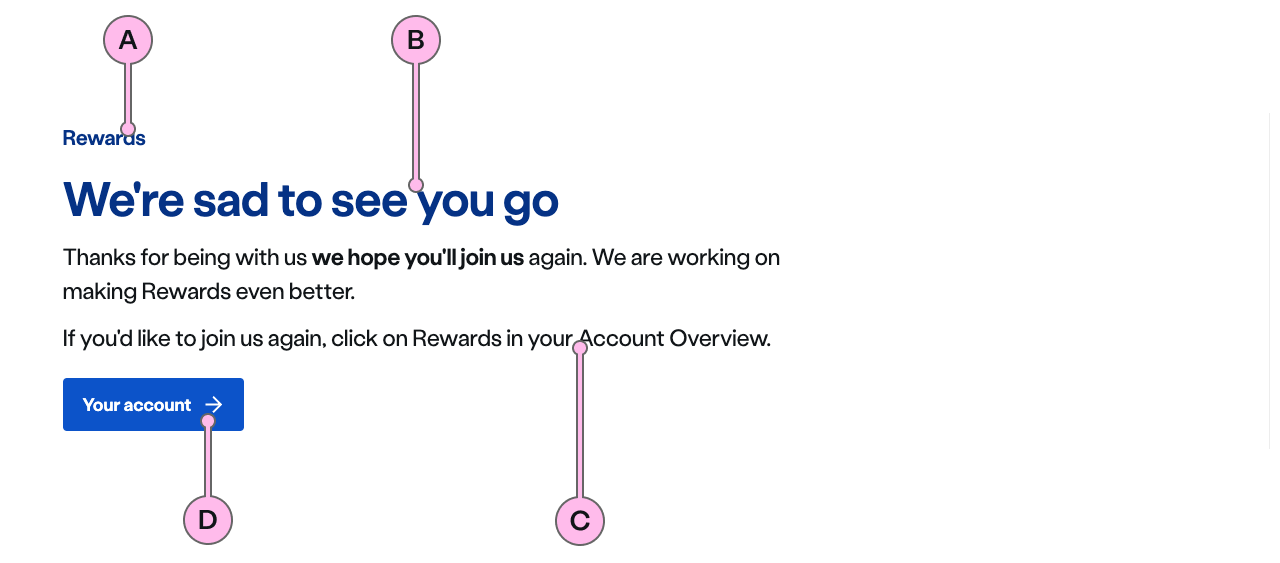
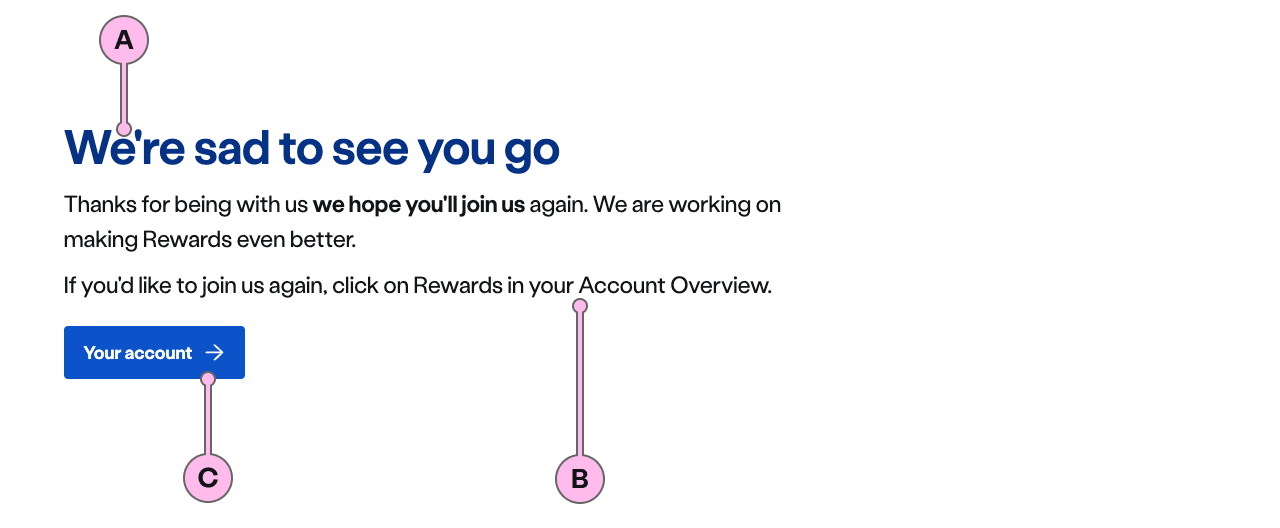
updated diagram and table for lakeside

Changed region(s): [[0.0312, 0.0303, 0.625, 0.7879], [0.125, 0.8485, 0.1875, 0.9697], [0.4375, 0.8485, 0.4688, 0.9697]]

diff --git a/docs/components/ns-landmark.md b/docs/components/ns-landmark.md
@@ -57,11 +57,9 @@ Landmarks are used to set the scene for what the page is for, what offers might 
 
 | Key | Field type | Guidelines |
 | :--- | :--- | :--- |
-| A | Sub heading | Sub headings are used to indicate the primary section or to reinforce a brand message. Short and simple words tend to work better and it is recommended to keep the length between 1 and 5 words. Include a full stop at the end of the sub-heading.  |
-| B | Main Heading | The recommended length is between 4 and 12 words, not exceeding 50 characters in total. Headings contain light and bold font weight to highlight key messaging. |
-| C | Content | Lakeside can accommodate multiple paragraph slots. However, be mindful of keeping it concise. Our guidance is a minimum of 1 and a maximum of 3. Can contain bold copy `<b>`, inline links `<a>` and a caveat at the end of the relevant paragraph if required `<a href="#caveat">1</a>`. |
-| D | Action | See action guidance below |
-
+| A | Main Heading | The recommended length is between 4 and 12 words, not exceeding 50 characters in total. |
+| B | Content | Lakeside can accommodate multiple paragraph slots. However, be mindful of keeping it concise. Our guidance is a minimum of 1 and a maximum of 3. Can contain bold copy `<b>`, inline links `<a>` and a caveat at the end of the relevant paragraph if required `<a href="#caveat">1</a>`. |
+| C | Action | See action guidance below |
 
 ### Image guidance
 
